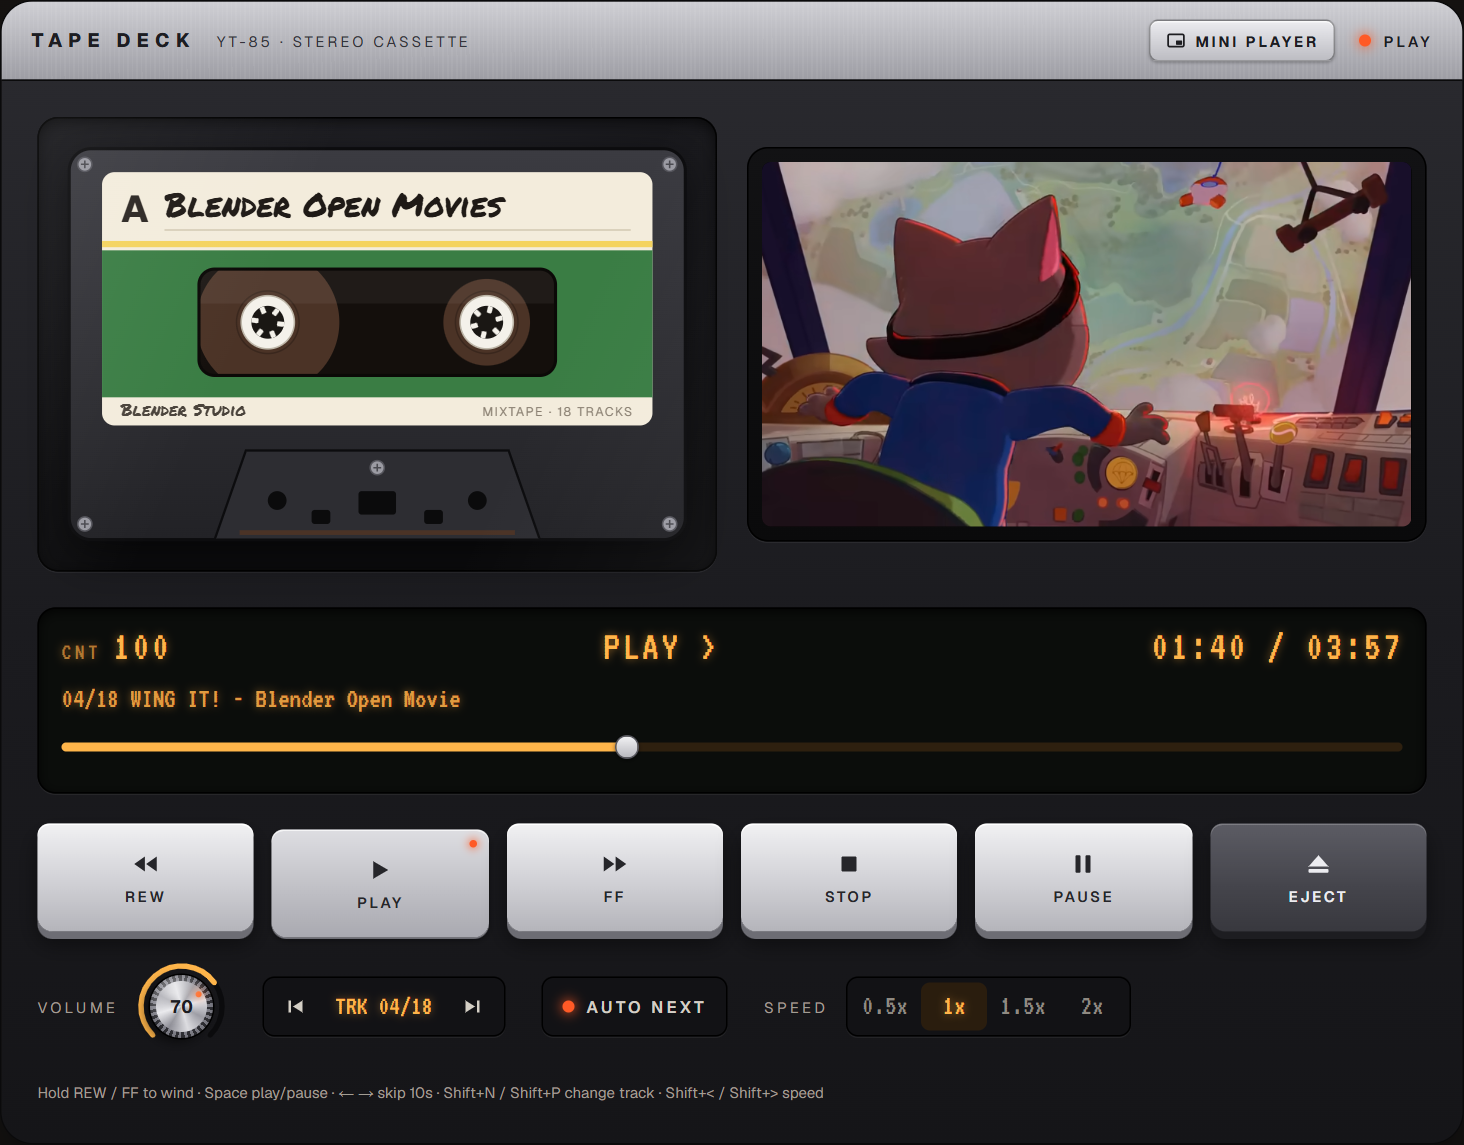
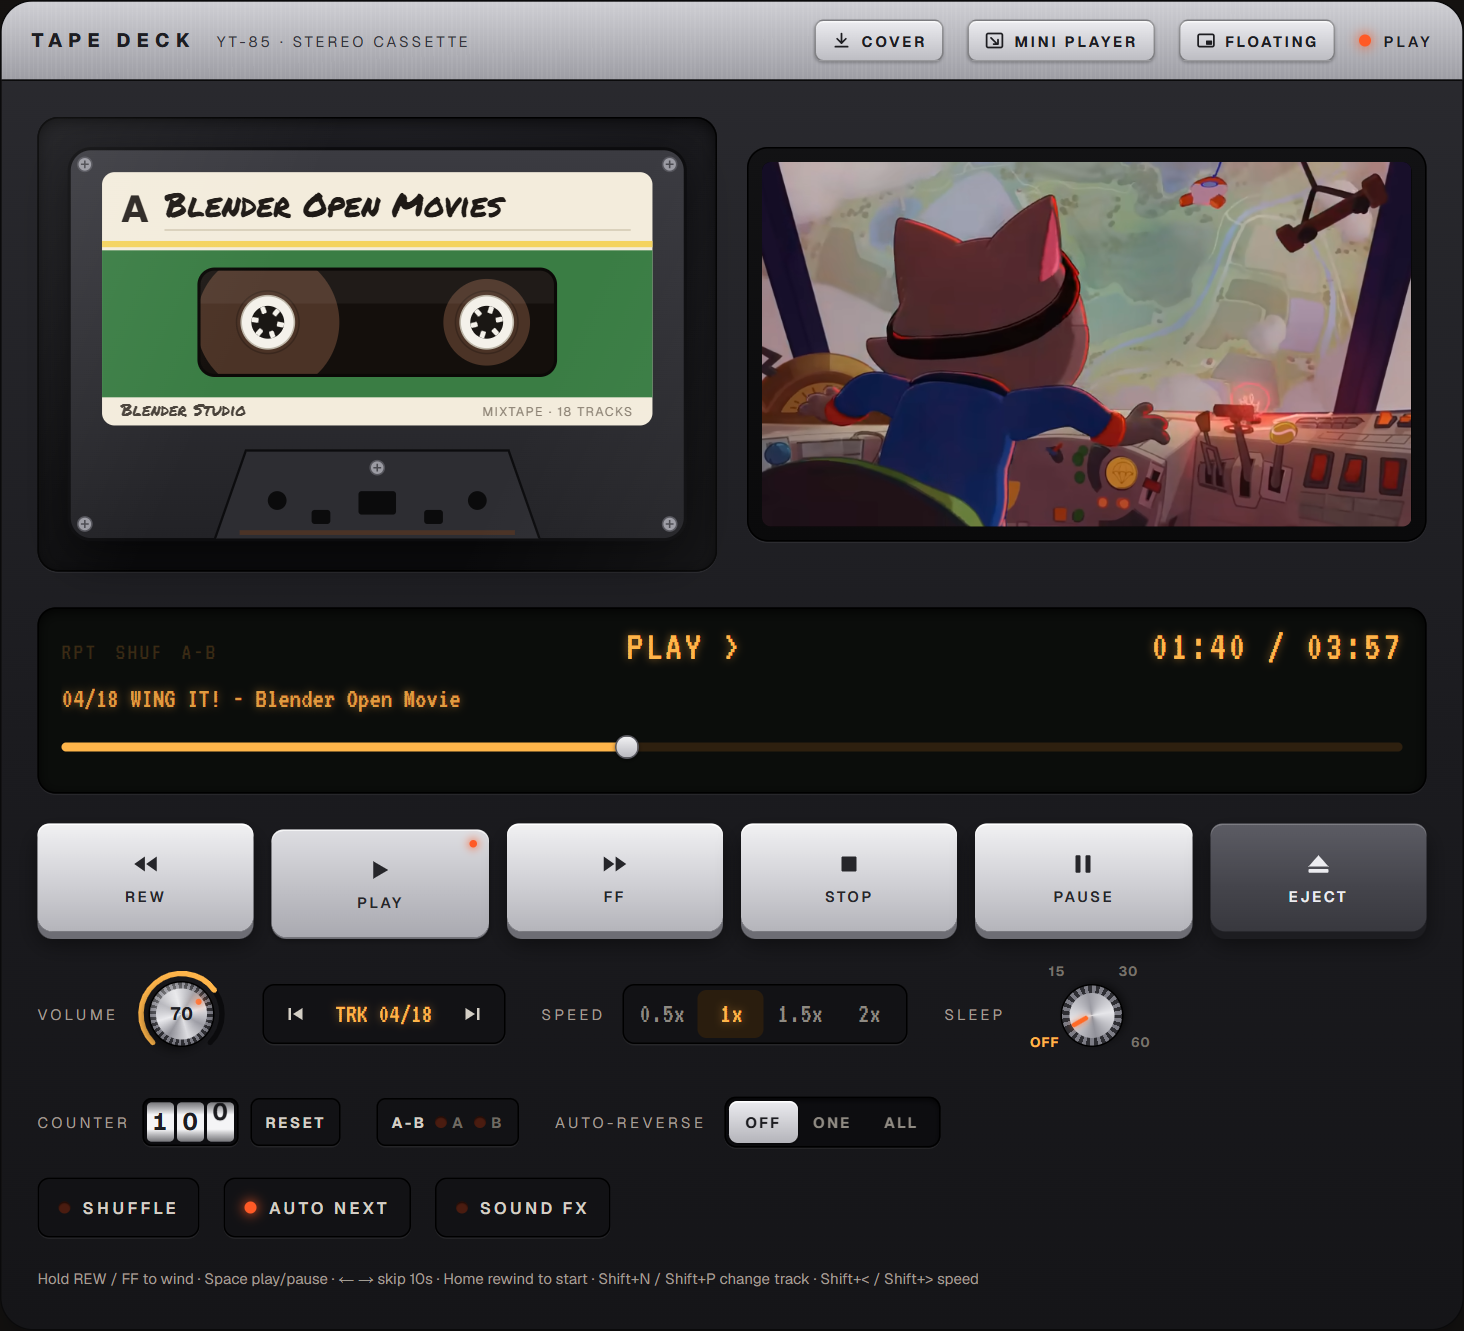
Update the README and screenshots for the new features
- Features list covering resume, AUTO-REVERSE and shuffle, custom and
  shared mixtapes, the tape counter and A-B repeat, sleep timer, labels
  and shells, sound effects, cover art, search/sort, export/import and
  both mini player modes
- Full keyboard shortcut table, a table of which mini player you get
  where, a "Your data" section on the versioned storage, and known
  limitations (including the Media Session finding)
- Fresh screenshots of the current deck, rack and corner mini player

diff --git a/README.md b/README.md
@@ -6,16 +6,40 @@
 
 <p align="center">A YouTube player dressed up as a retro cassette deck. Paste a YouTube link to record a tape, pop it in, and press play.</p>
 
-![The Tape Deck playing Big Buck Bunny, with four tapes in the rack](docs/screenshots/deck.png)
+![The Tape Deck playing Big Buck Bunny, with tapes in the rack](docs/screenshots/deck.png)
 
 ## Features
 
-- **Videos and playlists:** a playlist link records a *mixtape* that plays the whole playlist. Skip songs with the TRK buttons or Shift+N / Shift+P. (YouTube Mixes can't be played outside YouTube.)
-- **Mini player:** the **MINI PLAYER** button shrinks the app window into a compact player in the bottom-right corner of the screen, with Prev, Play/Stop, Next, speed and volume. The expand button (or Esc) puts it back. This needs the app window opened from the desktop icon, because browser tabs can't resize themselves.
-- **Floating player:** the **FLOATING** button opens the same compact player in a separate small window that stays on top of all your other windows. Close it with its ⤢ button or Esc. This needs Chrome or Edge.
-- **Volume knob:** hover over it and scroll the mouse wheel. You can also drag it up or down, or use the arrow keys when it's focused.
-- **Speed:** play at 0.5x, 1x, 1.5x or 2x from the deck or the mini player (or Shift+&lt; / Shift+&gt;). The speed is remembered.
-- **Deck controls:** hold REW / FF to wind through a video (a quick tap skips 10 seconds). The reels spin as the tape plays.
+**Playing**
+
+- **Videos and playlists:** a playlist link records a *mixtape* that plays the whole playlist. Step through songs with the TRK buttons or Shift+N / Shift+P.
+- **Resume where you stopped:** every tape remembers its position (and, on a mixtape, its track), saved every few seconds and whenever you pause, stop, eject, switch tapes or close the app. A tape left within 10 seconds of its end starts over.
+- **AUTO-REVERSE switch:** OFF, ONE (repeat the track) or ALL (repeat the tape or mixtape).
+- **SHUFFLE:** plays a mixtape's tracks in a random order without repeating any until all have played; PREV goes back through what actually played.
+- **Speed:** 0.5x, 1x, 1.5x or 2x, remembered between visits.
+- **Volume knob:** hover over it and scroll the mouse wheel, drag it up or down, or use the arrow keys when it's focused.
+- **REW / FF:** hold to wind (it speeds up the longer you hold), tap to skip 10 seconds. Unplayable videos on a mixtape are skipped with a short notice.
+
+**Retro touches**
+
+- **Tape counter:** a mechanical 000–999 counter that follows the tape (faster at higher speeds, backwards when rewinding), with RESET.
+- **A–B repeat:** press A-B once to mark A, again to mark B (playback loops between them), and a third time to clear.
+- **Sleep timer:** a rotary dial for 15, 30 or 60 minutes. When it runs out the music fades out over about 5 seconds and stops. Hover over the dial or focus it to see the time left.
+- **Labels and shells:** write your own label (handwritten or typed lettering) and pick a shell colour, including clear plastic, with a live preview.
+- **Sound effects:** optional mechanical clicks, tape door sounds and a winding whir, synthesized in the browser. Off until you switch SOUND FX on.
+
+**Your rack**
+
+- **Custom mixtapes:** "+ New mixtape", then add single-video tapes with their **+** button. The ✎ button renames a mixtape and reorders or removes tracks. Custom mixtapes play exactly like playlist mixtapes.
+- **Share a mixtape:** the share button makes a link with the mixtape's name and video IDs. Opening it shows a card asking whether to add it; nothing is added without your OK.
+- **Search and sort:** once the rack holds more than 8 tapes, filter by title and sort by recently added, recently played, or title.
+- **Export and import:** save the whole rack (tapes, mixtapes, labels, shells and resume positions) as a JSON file, then load it back with **Merge** (skip duplicates) or **Replace** (asks first).
+- **Cover art:** save a video's thumbnail as `Title - Channel.jpg` from the rack or with the deck's COVER button.
+
+**Mini player**
+
+- **MINI PLAYER** shrinks Tape Deck into a compact player with the video, Prev / Play-Stop / Next, speed and volume. See [which mini player you get](#mini-player-modes).
+- **FLOATING** opens the compact controls in a small window that stays on top of your other windows (Chrome and Edge).
 
 ## Screenshots
 
@@ -23,7 +47,31 @@
 | --- | --- |
 | ![A playlist recorded as a mixtape, on track 4 of 18](docs/screenshots/mixtape.png) | ![The mini player: cassette, track title, speed, Prev / Stop / Next and the volume knob](docs/screenshots/mini-player.png) |
 
-![Close-up of the deck keys, the volume knob, track buttons and speed selector](docs/screenshots/controls.png)
+![Close-up of the deck controls](docs/screenshots/controls.png)
+
+## Keyboard shortcuts
+
+| Keys | What they do |
+| --- | --- |
+| Space or K | Play / pause |
+| ← / → | Skip back / forward 10 seconds |
+| Home | Rewind to the start of the tape (or of the current mixtape track) |
+| Shift+N / Shift+P | Next / previous mixtape track |
+| Shift+&gt; / Shift+&lt; | Faster / slower |
+| Esc | Leave the mini player, or close the floating window |
+| Arrow keys on a focused knob, dial or switch | Turn the volume knob or sleep dial, move the AUTO-REVERSE switch (Page Up / Page Down / Home / End work on the knob and dial) |
+
+Shortcuts are ignored while you type in a field or while a button has focus. The REW key also gets you back to the start: hold it to wind.
+
+## Mini player modes
+
+| Where Tape Deck is running | MINI PLAYER does | FLOATING does |
+| --- | --- | --- |
+| The app window from the desktop icon | Shrinks the window into the bottom-right corner of the screen, video on top and controls below. ⤢ or Esc puts it back. | Opens the always-on-top window |
+| A normal Chrome or Edge tab (version 116+) | Opens the always-on-top window, since a tab can't resize itself | Same |
+| Other browsers | Shows a message (neither mode is available) | Not shown |
+
+The always-on-top window uses the browser's Document Picture-in-Picture feature and holds only the controls: the YouTube player stays in the main window, because moving it would reload it and stop the music. The corner mini window keeps the video visible because YouTube's embed rules don't allow playing a hidden player.
 
 ## Get started
 
@@ -51,6 +99,10 @@ If you move the project folder, run the command again to update the shortcuts. T
 
 The app includes a web app manifest. In Chrome or Edge, use the install button in the address bar (or **⋮ → Cast, save and share → Install page as app**) to add it with its own icon. Once the app is deployed to a public URL, anyone can install it this way.
 
+## Your data
+
+Everything stays in your browser's local storage; there are no accounts and no server-side storage. The rack uses a versioned schema (version 2, key `tapedeck:rack`). Racks saved by earlier versions of Tape Deck are migrated automatically, and if saved data can't be read it's kept in `tapedeck:rack-unreadable` instead of being overwritten. Settings (volume, speed, repeat, shuffle, sorting, sound effects) are stored separately. Use **Export** to keep a copy or move your rack to another browser.
+
 ## Develop
 
 ```bash
@@ -68,17 +120,28 @@ Then open [http://localhost:3000](http://localhost:3000).
 
 ### Where things live
 
-- `src/components/TapeDeck.tsx`: the deck, its controls, and the tape rack
+- `src/components/TapeDeck.tsx`: the deck, its controls and the YouTube player
+- `src/components/TapeRack.tsx`: the rack: recording, search and sort, mixtapes, sharing, export and import
 - `src/components/Cassette.tsx`: the cassette drawing and spinning reels
-- `src/components/MiniPlayer.tsx`, `src/lib/appWindow.ts`: the mini player and window resizing
-- `src/components/VolumeKnob.tsx`: the rotary volume knob
+- `src/components/MiniPlayer.tsx`, `src/lib/appWindow.ts`, `src/lib/pip.ts`: the mini player, window resizing and the floating window
+- `src/components/VolumeKnob.tsx`, `SleepDial.tsx`, `TapeCounter.tsx`, `controls.tsx`: deck controls
+- `src/components/MixtapeDialogs.tsx`, `TapeLookDialog.tsx`, `RackImportDialog.tsx`, `Dialog.tsx`: dialogs
+- `src/lib/rackStore.ts`: the versioned rack schema, migration and rack updates
+- `src/lib/sequencer.ts`: mixtape track order (shuffle, repeat, play history)
+- `src/lib/settings.ts`, `stored.ts`: remembered settings and safe localStorage access
+- `src/lib/mediaSession.ts`, `sleepTimer.ts`, `sfx.ts`, `shells.ts`, `rackFile.ts`, `shareLink.ts`: one feature each
 - `src/app/api/tape/route.ts`: looks up a video's or playlist's title and checks it can be embedded
+- `src/app/api/cover/route.ts`: serves a video's thumbnail as a named download
 - `src/app/manifest.ts`, `src/app/icon.svg`, `public/icons/`: app name and icons
 - `launcher/`: the Windows launcher and shortcut installer
 
 ## Known limitations
 
 - **Media keys and the Windows media flyout:** Tape Deck publishes what's playing and handles the media keys through the Media Session API, but in Chrome and Edge the YouTube player (which runs in its own iframe) registers a media session too, and the browser sends the system media controls to YouTube's. In practice: **Play/Pause works** (YouTube pauses and the deck follows), but **Next/Previous from the keyboard or the flyout don't change tracks or tapes**, and the flyout shows YouTube's title and artwork. Tested with Chrome and Edge on Windows. The deck's handlers stay in place for browsers that route media keys to the page.
+- **The always-on-top window is controls only.** The video plays in the main Tape Deck window, which has to stay open (it can be behind other windows).
+- **Share links point to where Tape Deck is running.** From the desktop icon that's `localhost`, so the links only work on your own computer until the app is deployed to a public address.
+- **YouTube limits:** Mixes (auto-generated playlists) can't be played outside YouTube; very long playlists may be cut short, since a mixtape uses the video list YouTube's embedded player provides; videos whose owners don't allow embedding are skipped.
+- **The sleep timer** isn't remembered if you reload the page.
 
 ## Credits
 
